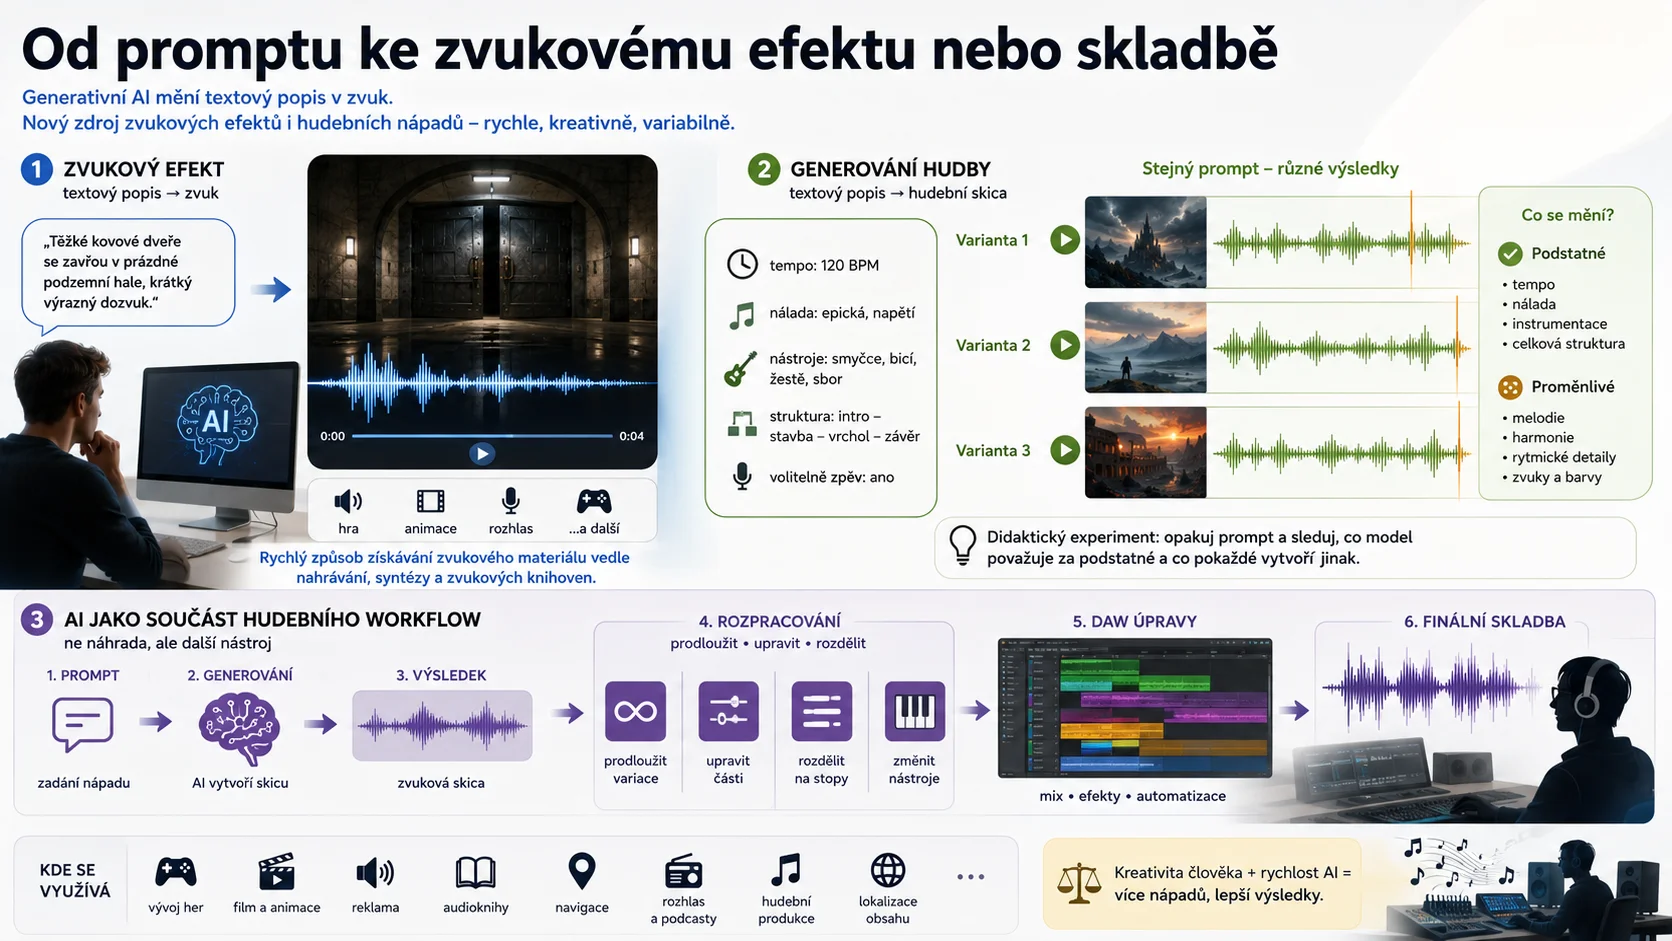
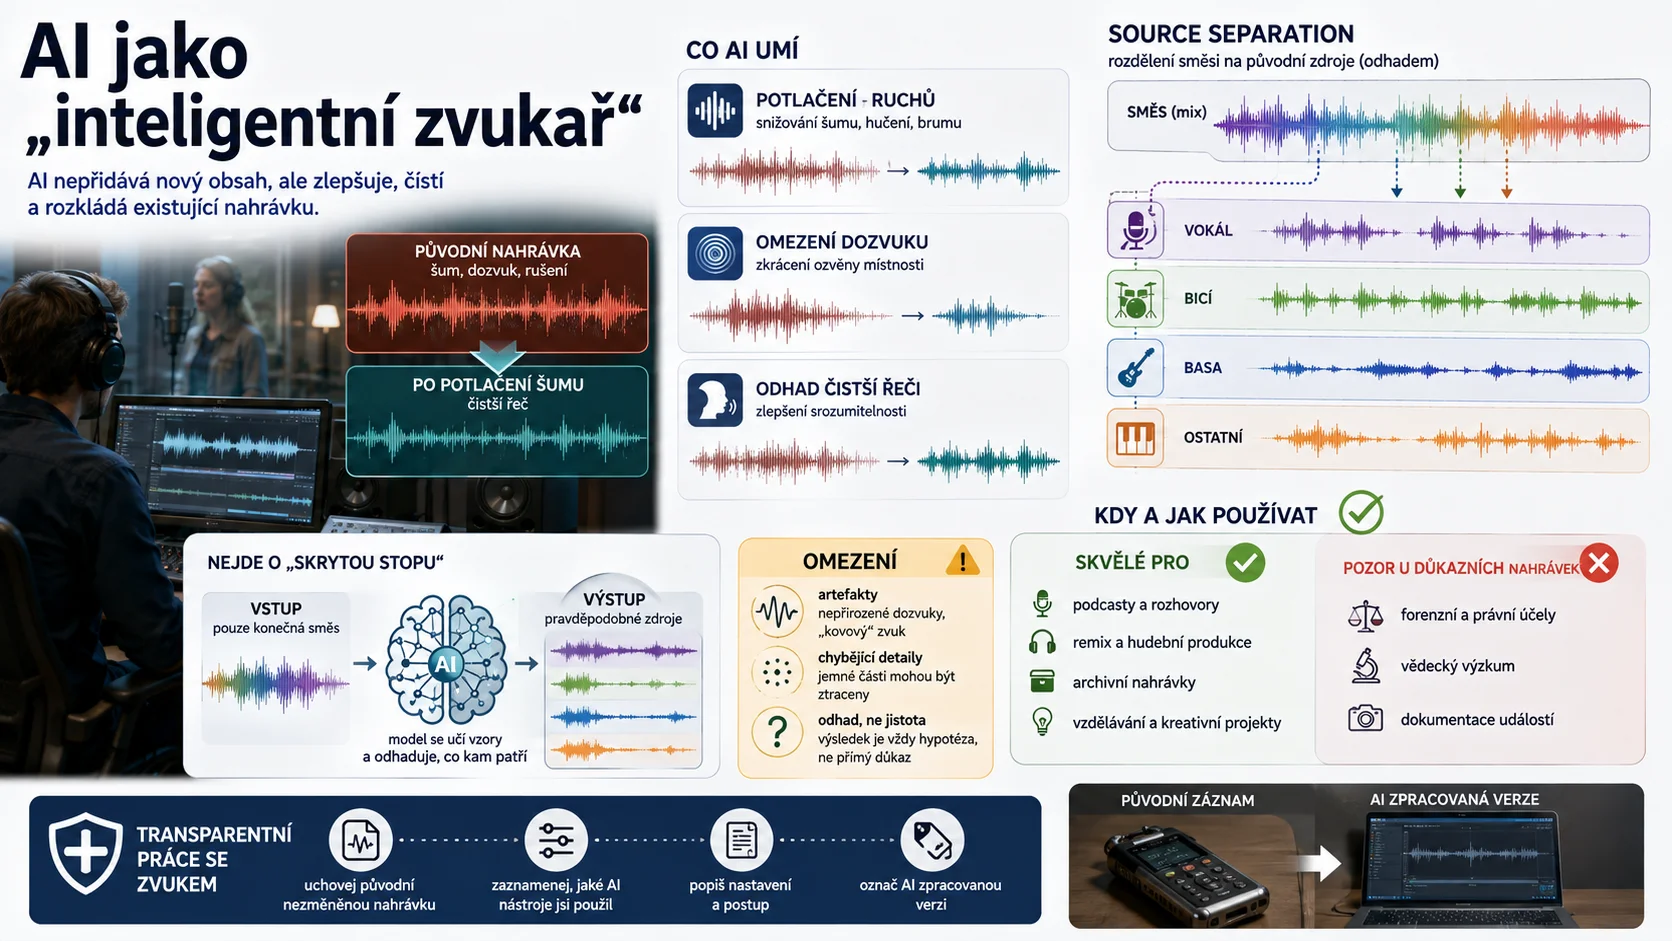
8-lekce-grafika

diff --git a/TEXTBOOK-BUILD-REPORT.md b/TEXTBOOK-BUILD-REPORT.md
@@ -1,13 +1,13 @@
 # TEXTBOOK BUILD REPORT
 
-Datum: 2026-08-12T20:55:34.238547+00:00
+Datum: 2026-08-12T21:08:47.308314+00:00
 Git commit: NEOVĚŘENO (repozitář není Git pracovní kopie)
 
 - Témata: 20
 - Lekce: 120
 - Podkapitoly: 607
 - Nalezené QUIZ: 120
-- Nalezené WEBP: 294
+- Nalezené WEBP: 293
 - Doplňkové kapitoly: 0
 - PDF: NEOVĚŘENO
 - TEX: NEOVĚŘENO
